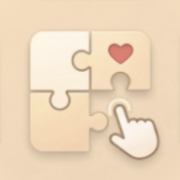
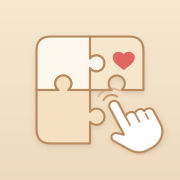
아이콘 고해상도 벡터로 다시 그림 (v=9)

Changed region(s): [[0.1389, 0.1667, 0.9167, 0.9167], [0.1667, 0.8056, 0.5, 0.8889]]

diff --git a/sw.js b/sw.js
@@ -1,6 +1,6 @@
 // 톡톡 오프라인 실행 (버전 202611041840)
-const CACHE = 'ttokttok-202611110029b';
-const SHELL = ["./","./index.html","./app-aca52a31.js?v=9","./app-21865120.css","./theme.css?v=8","./pwa.js?v=2","./kakao.js?v=1","./back.js?v=2","./push.js?v=4","./mood.js?v=6","./rooms.js?v=31","./account.js?v=1","./anim.js?v=9","./easy.js?v=1","./puzzle.js?v=5","./manifest.webmanifest?v=8","./icon-192.png?v=8","./icon-512.png?v=8","./icon-180.png?v=8","./favicon.svg?v=8","./art/g01.webp?v=1","./art/g02.webp?v=1","./art/g03.webp?v=1","./art/g04.webp?v=1","./art/g05.webp?v=1","./art/g06.webp?v=1","./art/g07.webp?v=1","./art/g08.webp?v=1","./art/g09.webp?v=1","./art/g10.webp?v=1","./art/g11.webp?v=1","./art/g12.webp?v=1","./privacy.html"];
+const CACHE = 'ttokttok-202611110105b';
+const SHELL = ["./","./index.html","./app-aca52a31.js?v=9","./app-21865120.css","./theme.css?v=8","./pwa.js?v=2","./kakao.js?v=1","./back.js?v=2","./push.js?v=4","./mood.js?v=6","./rooms.js?v=31","./account.js?v=1","./anim.js?v=9","./easy.js?v=1","./puzzle.js?v=5","./manifest.webmanifest?v=9","./icon-192.png?v=9","./icon-512.png?v=9","./icon-180.png?v=9","./favicon.svg?v=9","./art/g01.webp?v=1","./art/g02.webp?v=1","./art/g03.webp?v=1","./art/g04.webp?v=1","./art/g05.webp?v=1","./art/g06.webp?v=1","./art/g07.webp?v=1","./art/g08.webp?v=1","./art/g09.webp?v=1","./art/g10.webp?v=1","./art/g11.webp?v=1","./art/g12.webp?v=1","./privacy.html"];
 self.addEventListener('install', e => { e.waitUntil(caches.open(CACHE).then(c => c.addAll(SHELL.map(u => new Request(u, { cache: 'reload' })))).then(() => self.skipWaiting())); });
 self.addEventListener('activate', e => { e.waitUntil(caches.keys().then(ks => Promise.all(ks.filter(k => k !== CACHE).map(k => caches.delete(k)))).then(() => self.clients.claim())); });
 self.addEventListener('fetch', e => {

diff --git a/index.html b/index.html
@@ -5,9 +5,9 @@
 <meta name="viewport" content="width=device-width, initial-scale=1, viewport-fit=cover, user-scalable=no">
 <meta name="theme-color" content="#14284b">
 <title>톡톡</title>
-<link rel="icon" type="image/svg+xml" href="./favicon.svg?v=8">
-<link rel="manifest" href="./manifest.webmanifest?v=8">
-<link rel="apple-touch-icon" href="./icon-180.png?v=8">
+<link rel="icon" type="image/svg+xml" href="./favicon.svg?v=9">
+<link rel="manifest" href="./manifest.webmanifest?v=9">
+<link rel="apple-touch-icon" href="./icon-180.png?v=9">
 <meta name="apple-mobile-web-app-capable" content="yes">
 <meta name="mobile-web-app-capable" content="yes">
 <meta name="apple-mobile-web-app-status-bar-style" content="default">

diff --git a/CLAUDE.md b/CLAUDE.md
@@ -57,7 +57,7 @@
 - 양방향(부모만 확인받는 구조 아님), 대상은 '가까운 사람'(가족·친구·크루). 하트 주고받기는 하지 않음.
 - 11/11 방향 추가: 동네방(행정동 단위, GPS 없이 동 직접 선택, 끊김 알림은 방장=통장·복지관 담당자에게만, 이웃엔 집계만). 퍼즐 30조각 고정(초대 동기). 기획: 프로젝트 문서 claude/똑똑_동네방_기획_v1.md. 아직 구현 안 함.
 - 컨디션: 노크 후 큰 버튼, 목록엔 글자로만(얼굴·7일 점 없음), 주간 알림으로 위로·안부.
-- 아이콘: 11/11 퍼즐+하트+손 시안(7번)을 베이지·세이지로 고르기로 함(웹앱 아이콘·favicon 교체 완료 11/11, v=8: 원본 7번 그림 색만 바꾼 B안(베이지 바탕). 안드로이드 TWA 아이콘은 아직). 화면 색은 theme.css v2(베이지·세이지, 배치·기능 그대로).
+- 아이콘: 11/11 퍼즐+하트+손 시안(7번)을 베이지·세이지로 고르기로 함(웹앱 아이콘·favicon 교체 완료 11/11, v=9: 같은 디자인을 벡터 icon.svg로 다시 그려 고해상도 PNG 생성, 수정은 icon.svg에서. 안드로이드 TWA 아이콘은 아직). 화면 색은 theme.css v2(베이지·세이지, 배치·기능 그대로).
 - 플러스 월 2,900원 · 1년 29,000원(11/10 변경), 단체 1인 월 1,500원(베타 무료, 결제는 '준비 중'). 결제자만: 그림 미리보기·하루 3번·방 5개·소리·배지. 노크방 모두(곧): 문자 알림·형제 분담·주간 리포트·1년권 선물. 기본 안부 알림은 언제나 무료.
 - 그림 단품 판매 없음. 황금 칸 그림당 1칸, 당첨은 모두에게 공개.
 - 실명: 입장할 때 별명과 함께 선택 입력, 방장에게만 보임.
